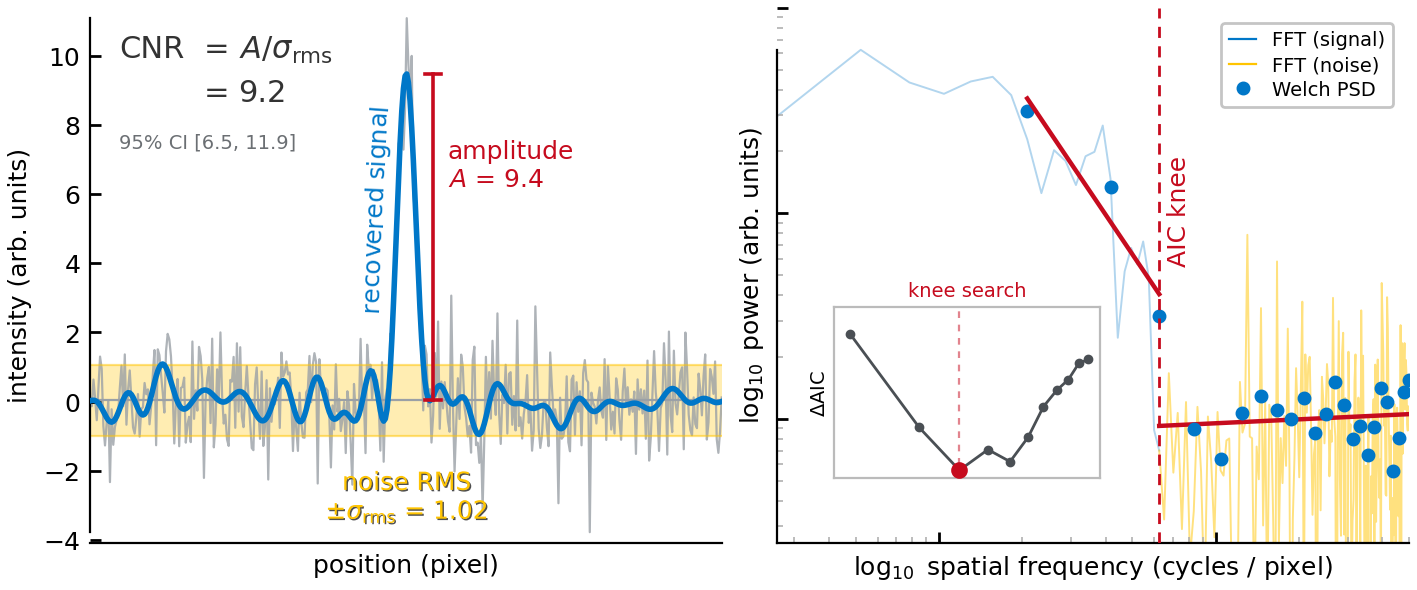
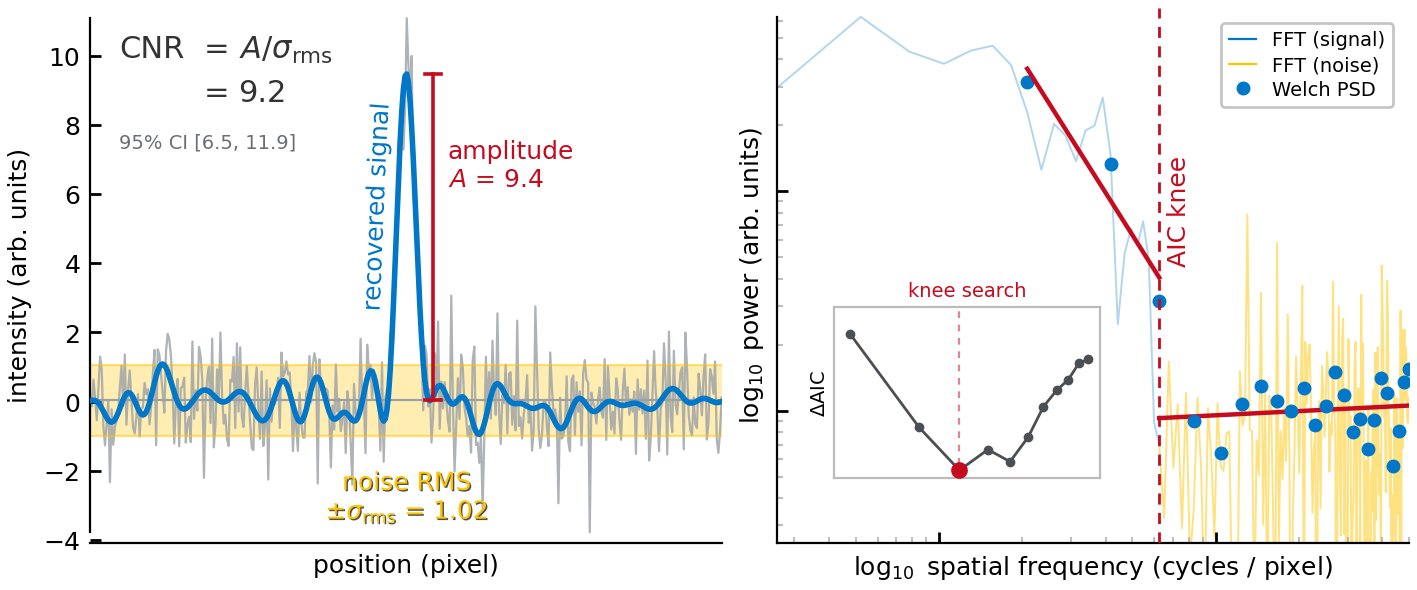
Fix hero panel-B y-axis range frame, add transparent and per-panel exports, bump curved-text to 0.5.0

diff --git a/assets/hero.py b/assets/hero.py
@@ -232,8 +232,14 @@ def render():
                color=BLUE, zorder=3)
 
     axB.set_xlim(fft_freq[1], welch_freq[-1])
-    axB.set_ylim(0.25, max(fft_power[1], Pxx[1]) * 1.6)
-    axB.set_yticks([1, 10, 100])         # decades within the data; no stray tick
+    # Range-frame y-axis: show only the decade ticks that fall inside the data
+    # span, then cap the view just above the spectral peak. Order matters --
+    # set_yticks pulls the view up to include every listed tick, so naming 100
+    # (above the ~62 peak) would re-expand the axis to the next empty decade and
+    # leave 100 and its minor ticks floating above where the left spine ends.
+    y_top = max(float(fft_power[1:].max()), float(Pxx[1:].max()))
+    axB.set_yticks([d for d in (0.1, 1, 10, 100, 1000) if 0.25 <= d <= y_top])
+    axB.set_ylim(0.25, y_top * 1.1)      # set after the ticks so it holds
     ymin, ymax = axB.get_ylim()
     # Knee divider, full height -- the search inset moved to the lower-left, so
     # the line is clear to run to the top.
@@ -292,7 +298,7 @@ def render():
     # span the data occupy.
     yA = (min(noisy.min(), baseline), max(noisy.max(), peak_y))
     axA.set_ylim(yA[0] - 0.3, yA[1] + 0.3)
-    yB_hi = max(float(fft_power[1:].max()), float(Pxx[1:].max()))
+    yB_hi = y_top
     spans = {axA: ((0, N - 1), yA),
              axB: ((fft_freq[1], welch_freq[-1]), (0.25, yB_hi))}
     for ax, ((xlo, xhi), (ylo, yhi)) in spans.items():
@@ -339,9 +345,35 @@ def render():
 
     out = "assets/hero.png"
     fig.savefig(out, dpi=200)
+
+    # Transparent-margin variant: the two panels keep their white backdrop so
+    # the traces and dark labels stay readable, but the figure margin around
+    # them is transparent, so the image drops onto any page background. Pin the
+    # axes (and inset) faces white first, then clear only the figure patch.
+    for ax in (axA, axB):
+        ax.set_facecolor("w")
+    out_transparent = "assets/hero_transparent.png"
+    fig.savefig(out_transparent, dpi=200, transparent=False, facecolor="none",
+                edgecolor="none")
+
+    # Per-panel exports: each panel as its own file. Crop the composed figure to
+    # one axes at a time -- its labels, legend, inset, and annotations are all
+    # children of that axes, so its tight bbox contains exactly that panel. Same
+    # white panel on a transparent margin as hero_transparent.png.
+    fig.canvas.draw()
+    renderer = fig.canvas.get_renderer()
+    panel_outs = []
+    for name, ax in (("a", axA), ("b", axB)):
+        ext = ax.get_tightbbox(renderer).transformed(
+            fig.dpi_scale_trans.inverted()).expanded(1.03, 1.03)
+        p = f"assets/hero_panel_{name}.png"
+        fig.savefig(p, dpi=200, bbox_inches=ext, facecolor="none",
+                    edgecolor="none")
+        panel_outs.append(p)
+
     plt.close(fig)
-    return out
+    return [out, out_transparent, *panel_outs]
 
 
-print("wrote", render())
+print("wrote", *render())
 print(f"CNR={cnr:.1f}, A={amplitude:.2f}, sigma={sigma:.3f}, knee bin={kc}")